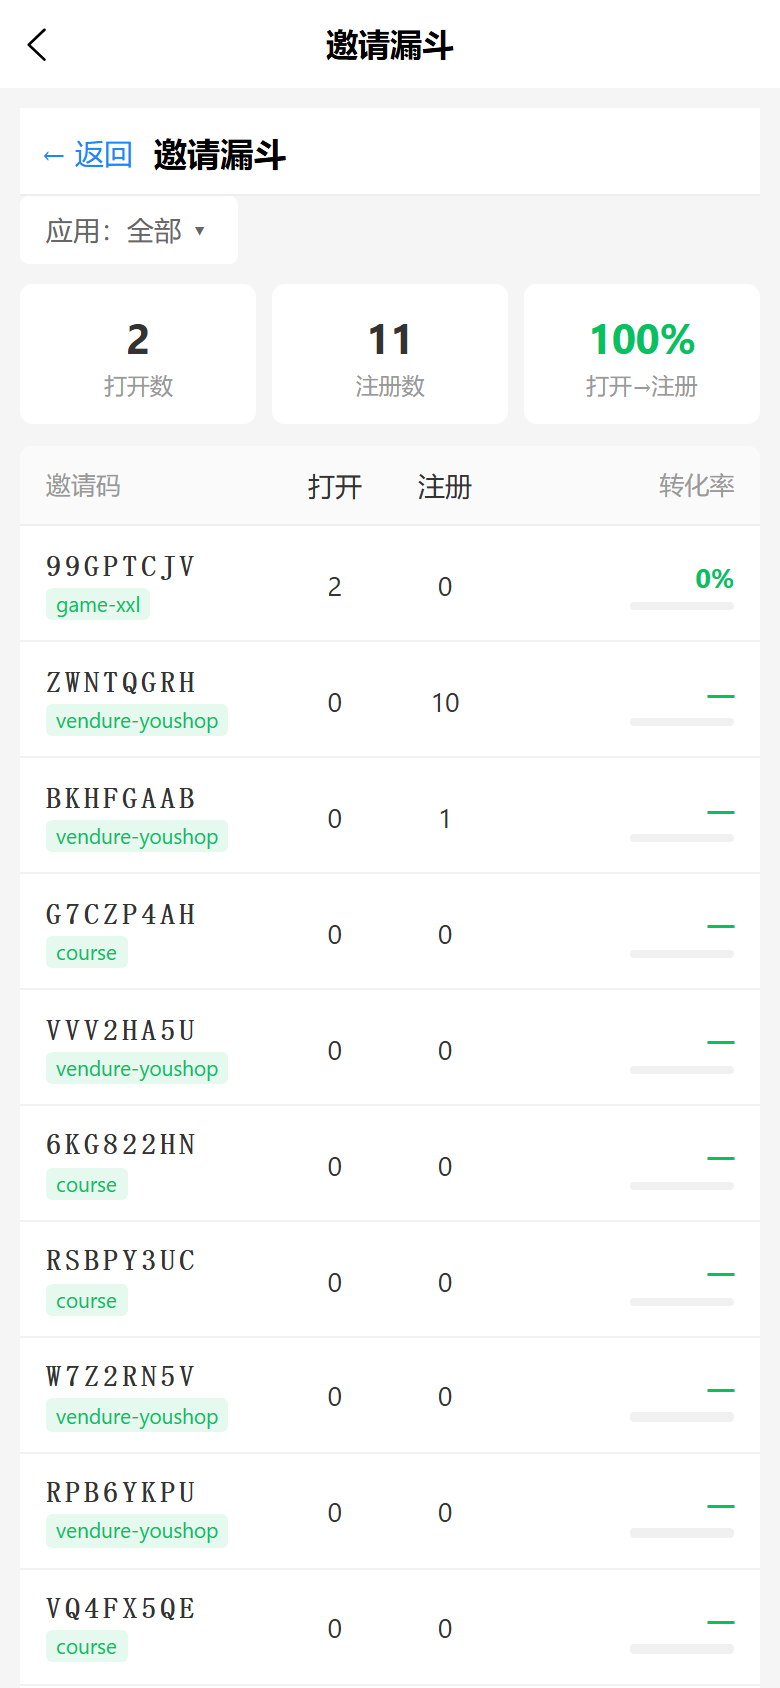
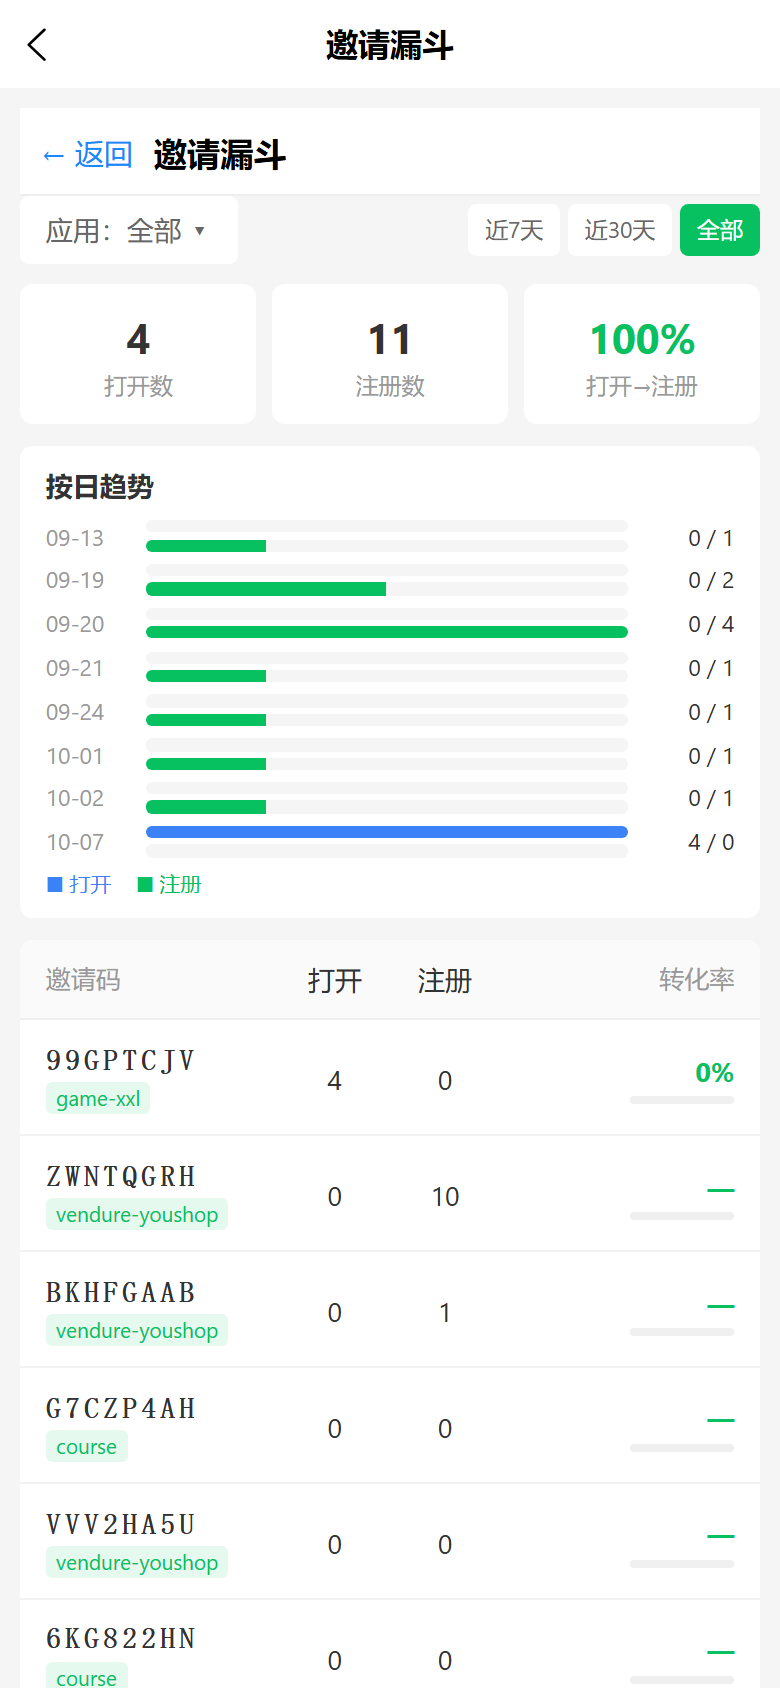
feat(sso): 邀请漏斗按日趋势 + 控制台消消乐运营专区
- 漏斗页：日期快捷（近7/30天/全部）+ 按日趋势双条形块（打开/注册，图例）
- 控制台：新增「消消乐运营」专区（A/B 渠道报表/邀请漏斗/浏览日志/统计汇总四入口，网格布局）
- 观察 P3 期一站式查询入口

diff --git a/src/pages/sso/invite-funnel/list.vue b/src/pages/sso/invite-funnel/list.vue
@@ -6,6 +6,15 @@
       <picker :range="appOptions" @change="onAppChange">
         <view class="filter-select">应用：{{ appLabel }} ▾</view>
       </picker>
+      <view class="range-group">
+        <view
+          v-for="opt in rangeOptions"
+          :key="opt.value"
+          class="range-btn"
+          :class="{ active: rangeValue === opt.value }"
+          @click="onRangeChange(opt.value)"
+        >{{ opt.label }}</view>
+      </view>
     </view>
 
     <view class="summary-bar">
@@ -21,6 +30,19 @@
         <view class="sum-num">{{ fmtRate(summary.conversionRate) }}</view>
         <view class="sum-label">打开→注册</view>
       </view>
+    </view>
+
+    <view v-if="daily.length > 0" class="daily-block">
+      <view class="daily-title">按日趋势</view>
+      <view v-for="d in daily" :key="d.date" class="daily-row">
+        <text class="daily-date">{{ d.date.slice(5) }}</text>
+        <view class="daily-bars">
+          <view class="daily-bar opens"><view class="daily-fill opens" :style="{ width: dayWidth(d, 'opens') + '%' }"></view></view>
+          <view class="daily-bar regs"><view class="daily-fill regs" :style="{ width: dayWidth(d, 'registers') + '%' }"></view></view>
+        </view>
+        <text class="daily-nums">{{ d.opens }} / {{ d.registers }}</text>
+      </view>
+      <view class="daily-legend"><text class="lg opens">■ 打开</text><text class="lg regs">■ 注册</text></view>
     </view>
 
     <view class="funnel-table">
@@ -64,8 +86,15 @@ import PageHeader from '../../../components/PageHeader.vue'
 const loading = ref(false)
 const summary = ref({ totalOpens: 0, totalRegisters: 0, conversionRate: null, lastOpenAt: null })
 const rows = ref([])
+const daily = ref([])
 const appCode = ref('')
 const apps = ref([])
+const rangeValue = ref('all')
+const rangeOptions = [
+  { label: '近7天', value: '7' },
+  { label: '近30天', value: '30' },
+  { label: '全部', value: 'all' },
+]
 
 const appOptions = computed(() => ['全部', ...apps.value.map((a) => a.app_code)])
 const appLabel = computed(() => appCode.value || '全部')
@@ -92,12 +121,34 @@ async function loadApps() {
   } catch (e) { /* 筛选不可用时保持仅「全部」 */ }
 }
 
+function onRangeChange(v) {
+  rangeValue.value = v
+  loadData()
+}
+
+function dateParams() {
+  if (rangeValue.value === 'all') return {}
+  const days = Number(rangeValue.value)
+  const end = new Date()
+  const start = new Date(Date.now() - (days - 1) * 86400000)
+  const fmt = (d) => d.toISOString().slice(0, 10)
+  return { startDate: fmt(start), endDate: fmt(end) }
+}
+
+function dayWidth(d, key) {
+  const max = Math.max(...daily.value.map((x) => Math.max(x.opens, x.registers)), 1)
+  return (d[key] / max) * 100
+}
+
 async function loadData() {
   loading.value = true
   try {
-    const data = await ssoInviteCodeApi.funnel(appCode.value ? { appCode: appCode.value } : {})
+    const params = { ...dateParams() }
+    if (appCode.value) params.appCode = appCode.value
+    const data = await ssoInviteCodeApi.funnel(params)
     summary.value = data?.summary || { totalOpens: 0, totalRegisters: 0, conversionRate: null }
     rows.value = data?.rows || []
+    daily.value = data?.daily || []
   } catch (e) {
     uni.showToast({ title: '加载失败', icon: 'none' })
   } finally {
@@ -122,6 +173,9 @@ page {
 }
 
 .filter-bar {
+  display: flex;
+  align-items: center;
+  gap: 16rpx;
   margin-bottom: 20rpx;
 }
 .filter-select {
@@ -131,6 +185,84 @@ page {
   padding: 14rpx 24rpx;
   font-size: 26rpx;
   color: #666;
+}
+.range-group {
+  margin-left: auto;
+  display: flex;
+  gap: 8rpx;
+}
+.range-btn {
+  font-size: 22rpx;
+  color: #666;
+  background: #fff;
+  border-radius: 8rpx;
+  padding: 10rpx 16rpx;
+}
+.range-btn.active {
+  color: #fff;
+  background: #07c160;
+}
+
+.daily-block {
+  background: #fff;
+  border-radius: 12rpx;
+  padding: 20rpx 24rpx;
+  margin-bottom: 20rpx;
+}
+.daily-title {
+  font-size: 26rpx;
+  font-weight: bold;
+  color: #333;
+  margin-bottom: 16rpx;
+}
+.daily-row {
+  display: flex;
+  align-items: center;
+  gap: 12rpx;
+  margin-bottom: 12rpx;
+}
+.daily-date {
+  width: 84rpx;
+  font-size: 22rpx;
+  color: #999;
+}
+.daily-bars {
+  flex: 1;
+  display: flex;
+  flex-direction: column;
+  gap: 6rpx;
+}
+.daily-bar {
+  height: 12rpx;
+  background: #f5f5f5;
+  border-radius: 6rpx;
+  overflow: hidden;
+}
+.daily-fill.opens {
+  height: 100%;
+  background: #3b82f6;
+}
+.daily-fill.regs {
+  height: 100%;
+  background: #07c160;
+}
+.daily-nums {
+  width: 90rpx;
+  text-align: right;
+  font-size: 22rpx;
+  color: #333;
+}
+.daily-legend {
+  display: flex;
+  gap: 24rpx;
+  font-size: 20rpx;
+  color: #999;
+}
+.daily-legend .lg.opens {
+  color: #3b82f6;
+}
+.daily-legend .lg.regs {
+  color: #07c160;
 }
 
 .summary-bar {

diff --git a/src/pages/dashboard/index.vue b/src/pages/dashboard/index.vue
@@ -711,6 +711,29 @@
           <view class="module-name">手动SOP待办</view>
         </view>
       </view>
+
+      <!-- 消消乐运营专区：分享 A/B 测试观察期一站式查询 -->
+      <view class="module-section" v-if="hasPermission('menu.sso-invite') || hasPermission('menu.studio-stats')">
+        <view class="section-title">🎮 消消乐运营</view>
+        <view class="module-grid">
+          <view class="module-item" v-if="hasPermission('menu.studio-stats')" @click="navigateTo('/pages/studio/channel-report/index')">
+            <view class="module-icon">📊</view>
+            <view class="module-name">A/B 渠道报表</view>
+          </view>
+          <view class="module-item" v-if="hasPermission('menu.sso-invite')" @click="navigateTo('/pages/sso/invite-funnel/list')">
+            <view class="module-icon">📈</view>
+            <view class="module-name">邀请漏斗</view>
+          </view>
+          <view class="module-item" v-if="hasPermission('menu.studio-stats')" @click="navigateTo('/pages/studio/browser-log/list')">
+            <view class="module-icon">🔍</view>
+            <view class="module-name">浏览日志</view>
+          </view>
+          <view class="module-item" v-if="hasPermission('menu.studio-stats')" @click="navigateTo('/pages/studio/stat-summary/list')">
+            <view class="module-icon">🧮</view>
+            <view class="module-name">统计汇总</view>
+          </view>
+        </view>
+      </view>
     </view>
 
     <!-- 公众号运营 -->

diff --git a/tools/verify_invite_funnel.py b/tools/verify_invite_funnel.py
@@ -52,6 +52,18 @@ def main():
         print("[2] after login:", page.url[:80])
         page.screenshot(path=f"{OUT}/01-login-dashboard.png")
 
+        # 2.5 dashboard 滚到底部截「消消乐运营」专区
+        try:
+            page.mouse.wheel(0, 20000)
+            page.wait_for_timeout(1500)
+            section = page.locator("text=消消乐运营").first
+            section.scroll_into_view_if_needed(timeout=3000)
+            page.wait_for_timeout(800)
+            page.screenshot(path=f"{OUT}/03-xxl-ops-section.png")
+            print("[2.5] xxl-ops section captured")
+        except Exception as e:
+            print("[2.5] section scroll skipped:", e)
+
         # 2. 进入邀请漏斗
         page.goto(f"{BASE}/#/pages/sso/invite-funnel/list", wait_until="domcontentloaded")
         page.wait_for_timeout(4000)
